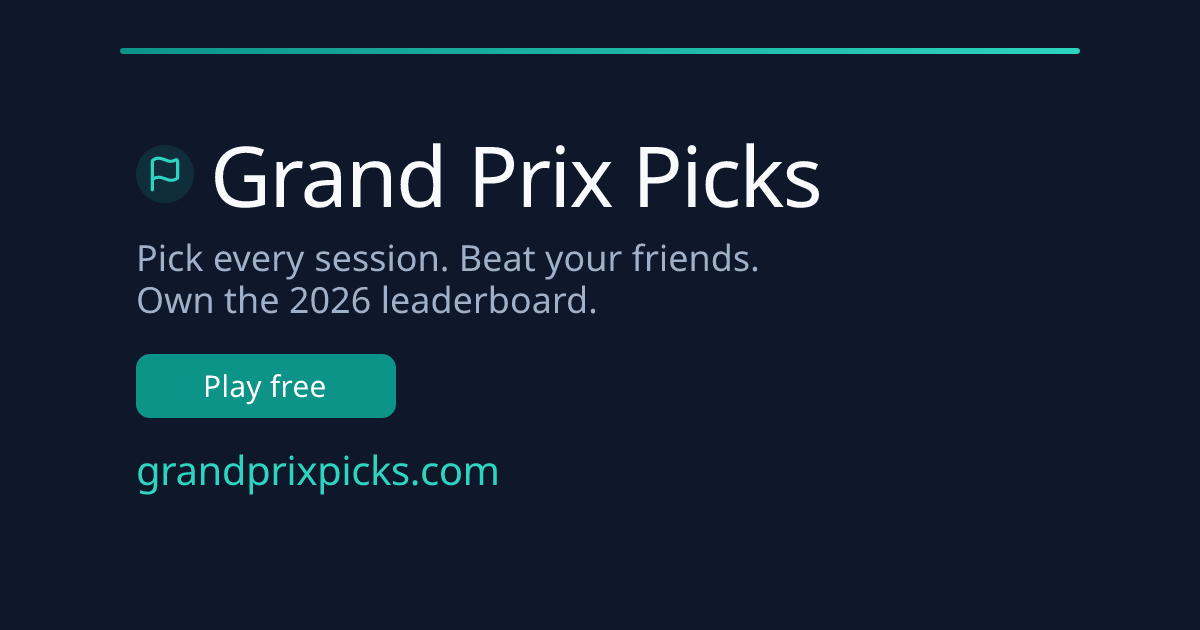
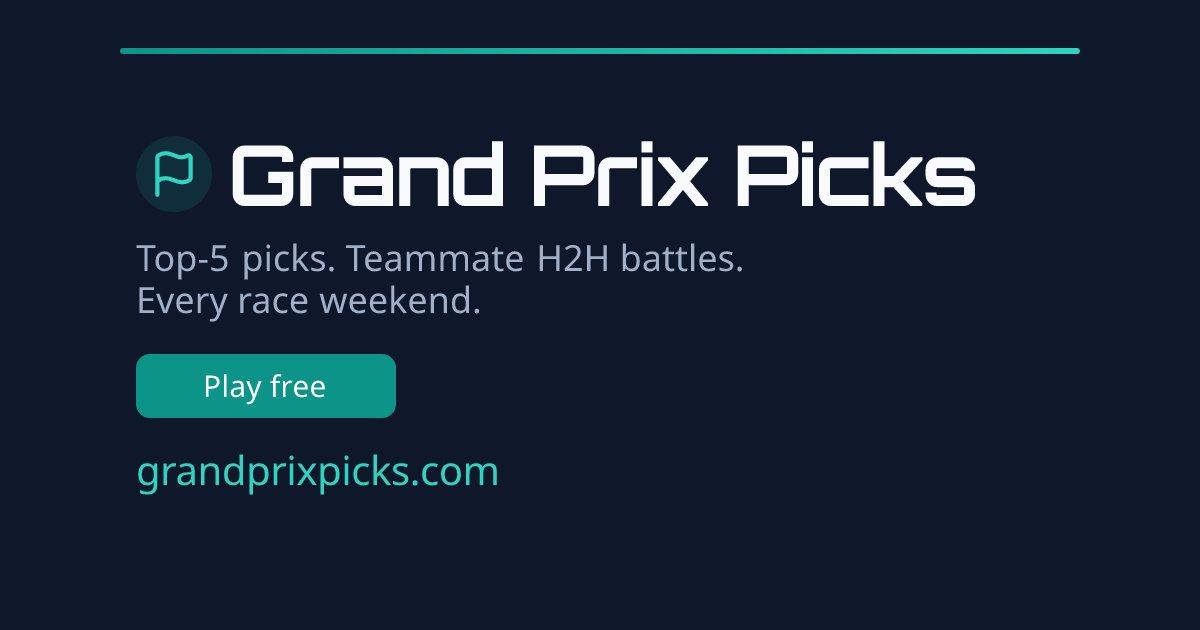
updated fonts

Changed region(s): [[0.1233, 0.2111, 0.8325, 0.3317], [0.0925, 0.3921, 0.6167, 0.5127]]

diff --git a/src/lib/og/fonts.ts b/src/lib/og/fonts.ts
@@ -15,7 +15,15 @@ const WOFF_USER_AGENT =
   'Mozilla/5.0 (Windows NT 6.1; WOW64; rv:27.0) Gecko/20100101 Firefox/27.0';
 
 async function resolveFontUrl(weight: number): Promise<string> {
-  const cssUrl = `https://fonts.googleapis.com/css2?family=Inter:wght@${weight}`;
+  return resolveFontUrlForFamily('Inter', weight);
+}
+
+async function resolveFontUrlForFamily(
+  family: string,
+  weight: number,
+): Promise<string> {
+  const encodedFamily = encodeURIComponent(family);
+  const cssUrl = `https://fonts.googleapis.com/css2?family=${encodedFamily}:wght@${weight}`;
   const res = await fetch(cssUrl, {
     headers: { 'User-Agent': WOFF_USER_AGENT },
   });
@@ -37,19 +45,22 @@ export async function loadFonts(): Promise<Array<SatoriFont>> {
     return fontsCache;
   }
 
-  const [regularUrl, boldUrl] = await Promise.all([
+  const [regularUrl, boldUrl, orbitronBoldUrl] = await Promise.all([
     resolveFontUrl(400),
     resolveFontUrl(700),
+    resolveFontUrlForFamily('Orbitron', 700),
   ]);
 
-  const [regular, bold] = await Promise.all([
+  const [regular, bold, orbitronBold] = await Promise.all([
     fetch(regularUrl).then((r) => r.arrayBuffer()),
     fetch(boldUrl).then((r) => r.arrayBuffer()),
+    fetch(orbitronBoldUrl).then((r) => r.arrayBuffer()),
   ]);
 
   fontsCache = [
     { name: 'Inter', data: regular, weight: 400, style: 'normal' },
     { name: 'Inter', data: bold, weight: 700, style: 'normal' },
+    { name: 'Orbitron', data: orbitronBold, weight: 700, style: 'normal' },
   ];
 
   return fontsCache;

diff --git a/src/components/Header.tsx b/src/components/Header.tsx
@@ -183,7 +183,7 @@ export function Header({
                 aria-hidden="true"
               />
             </span>
-            <span className="pr-1 text-xl font-bold tracking-tight">
+            <span className="font-title pr-1 text-xl font-bold tracking-tight">
               Grand Prix Picks
             </span>
           </Link>
@@ -191,7 +191,7 @@ export function Header({
           {/* Desktop nav - accent link style, thick border for selected, full-area hover highlight */}
           <nav
             aria-label="Main navigation"
-            className="hidden items-center gap-1 min-[791px]:flex"
+            className="font-title hidden items-center gap-1 min-[791px]:flex"
           >
             {navLinks.map((link) => (
               <Link
@@ -283,7 +283,7 @@ export function Header({
               animate={{ opacity: 1, y: 0 }}
               exit={{ opacity: 0, y: -10 }}
               transition={{ duration: 0.2, ease: 'easeOut' }}
-              className="absolute top-[calc(100%-7px)] right-0 left-0 z-50 border-b border-border bg-surface shadow-xl min-[791px]:hidden"
+              className="font-title absolute top-[calc(100%-7px)] right-0 left-0 z-50 border-b border-border bg-surface shadow-xl min-[791px]:hidden"
             >
               <div className="flex flex-col gap-1 px-4 py-3">
                 {navLinks.map((link, index) => (

diff --git a/src/lib/og/templates.ts b/src/lib/og/templates.ts
@@ -70,6 +70,7 @@ function layout(size: OgImageSize, ...children: Array<ReactNode>): ReactNode {
             gap: 12,
             fontSize: 20,
             fontWeight: 700,
+            fontFamily: 'Orbitron',
             color: colors.text,
           },
         },
@@ -181,6 +182,7 @@ export function homeTemplate(size: OgImageSize = 'og'): ReactNode {
             style: {
               fontSize: 82,
               fontWeight: 700,
+              fontFamily: 'Orbitron',
               lineHeight: 1.1,
               color: colors.text,
             },
@@ -316,6 +318,7 @@ export function raceTemplate(
           style: {
             fontSize: 56,
             fontWeight: 700,
+            fontFamily: 'Orbitron',
             lineHeight: 1.1,
             color: colors.text,
           },
@@ -504,6 +507,7 @@ export function leaderboardTemplate(
           style: {
             fontSize: 48,
             fontWeight: 700,
+            fontFamily: 'Orbitron',
             color: colors.text,
             textAlign: 'center' as const,
           },

diff --git a/src/styles.css b/src/styles.css
@@ -6,6 +6,15 @@
    ========================================================================== */
 
 :root {
+  --font-title:
+    'Orbitron',
+    ui-sans-serif,
+    system-ui,
+    -apple-system,
+    BlinkMacSystemFont,
+    'Segoe UI',
+    Roboto,
+    sans-serif;
   --page: #f8fafc;
   --surface: #ffffff;
   --surface-raised: #ffffff;
@@ -133,6 +142,17 @@ body {
   -webkit-font-smoothing: antialiased;
   -moz-osx-font-smoothing: grayscale;
   overscroll-behavior: none;
+}
+
+h1,
+h2,
+h3,
+h4 {
+  font-family: var(--font-title);
+}
+
+.font-title {
+  font-family: var(--font-title);
 }
 
 code {

diff --git a/src/routes/__root.tsx b/src/routes/__root.tsx
@@ -90,6 +90,12 @@ export const Route = createRootRouteWithContext<MyRouterContext>()({
       { name: 'twitter:creator', content: '@barrymdoyle' },
     ],
     links: [
+      { rel: 'preconnect', href: 'https://fonts.googleapis.com' },
+      { rel: 'preconnect', href: 'https://fonts.gstatic.com', crossOrigin: '' },
+      {
+        rel: 'stylesheet',
+        href: 'https://fonts.googleapis.com/css2?family=Orbitron:wght@500;700;800;900&display=swap',
+      },
       { rel: 'stylesheet', href: appCss },
       {
         rel: 'icon',

diff --git a/src/components/Footer.tsx b/src/components/Footer.tsx
@@ -46,7 +46,7 @@ export function Footer() {
                   aria-hidden="true"
                 />
               </span>
-              <span>Grand Prix Picks</span>
+              <span className="font-title tracking-tight">Grand Prix Picks</span>
             </p>
             <p className="max-w-sm text-xs text-text-muted">
               Fan-made prediction game for Formula 1 race weekends. No gambling

diff --git a/src/lib/site.ts b/src/lib/site.ts
@@ -24,7 +24,7 @@ const ogBaseUrl =
   siteConfig.url;
 
 /** Temporary shared OG image until per-page variants are finalized. */
-export const defaultOgImage = `${ogBaseUrl}/og-default.png?v=20260224`;
+export const defaultOgImage = `${ogBaseUrl}/og-default.png?v=20260302b`;
 
 /**
  * Returns canonical meta tags (og:url, twitter:url) and the canonical link
